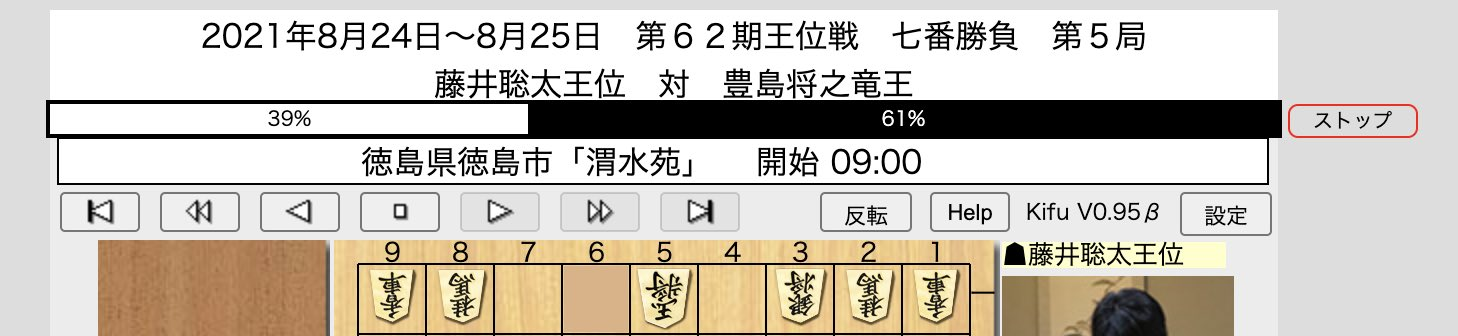
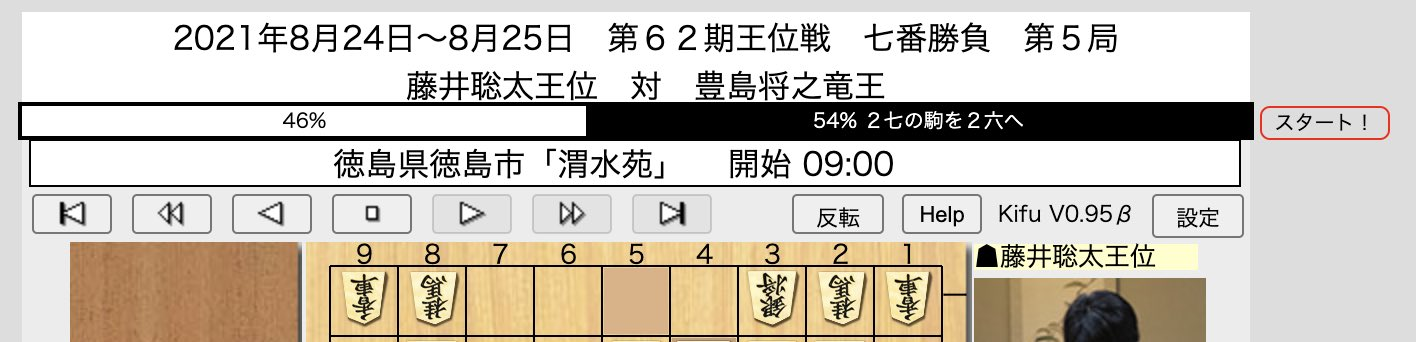
shows recommended move

Changed region(s): [[0.0, 0.0298, 0.9944, 1.0], [0.5593, 0.2976, 0.7147, 0.3869]]

diff --git a/usi_extension/content.js b/usi_extension/content.js
@@ -5,6 +5,33 @@ function scoreToWinrate(score) {
     return 1.0 / (1.0 + Math.exp(-score / 600.0));
 }
 
+function japaneseMove(usiMove) {
+    const PIECE_JAPANESE_SYMBOLS = {
+        "p": "歩",
+        "l": "香",
+        "n": "桂",
+        "s": "銀",
+        "g": "金",
+        "b": "角",
+        "r": "飛",
+        "k": "玉",
+        "+p": "と",
+        "+l": "杏",
+        "+n": "圭",
+        "+s": "全",
+        "+b": "馬",
+        "+r": "龍"
+    };
+    const OFFSET = "a".charCodeAt(0) - 1;
+    const ARABICS = ["０", "１", "２", "３", "４", "５", "６", "７", "８", "９"];
+    const KANJI_NUMBERS = ["零", "一", "二", "三", "四", "五", "六", "七", "八", "九"];
+    if (/^[1-9]/.test(usiMove)) {
+        return `${ARABICS[parseInt(usiMove[0])] + KANJI_NUMBERS[usiMove.charCodeAt(1) - OFFSET]}の駒を${ARABICS[parseInt(usiMove[2])] + KANJI_NUMBERS[usiMove.charCodeAt(3) - OFFSET]}へ`;
+    } else {
+        return `持ち駒${PIECE_JAPANESE_SYMBOLS[usiMove.slice(0, 2)]}を${ARABICS[parseInt(usiMove[2])] + KANJI_NUMBERS[usiMove.charCodeAt(3) - OFFSET]}へ`;
+    }
+}
+
 function addSituationBar(container) {
     const bar = document.createElement("div");
     bar.id = "usi-extension-bar";
@@ -44,13 +71,14 @@ for (const line of script.textContent.split("\n")) {
         chrome.runtime.onMessage.addListener(function(message, sender, callback) {
             console.log(message);
             const winrate = Math.round(scoreToWinrate(message["score cp"]) * 100);
+            const move = japaneseMove(message["pv"][0].toLowerCase());
             if (message.turn === "先手") {
                 white.textContent = `${100 - winrate}%`;
                 white.style.width = `${100 - winrate}%`;
-                black.textContent = `${winrate}%`;
+                black.textContent = `${winrate}% ${move}`;
                 black.style.width = `${winrate}%`;
             } else {
-                white.textContent = `${winrate}%`;
+                white.textContent = `${winrate}% ${move}`;
                 white.style.width = `${winrate}%`;
                 black.textContent = `${100 - winrate}%`;
                 black.style.width = `${100 - winrate}%`;

diff --git a/README.md b/README.md
@@ -10,4 +10,5 @@
 + Chrome拡張をインストール
 
 # TODO
+- 推奨手の表示の改善(将棋版論理モデルの実装)
 - 棋譜の表示状況との同期
